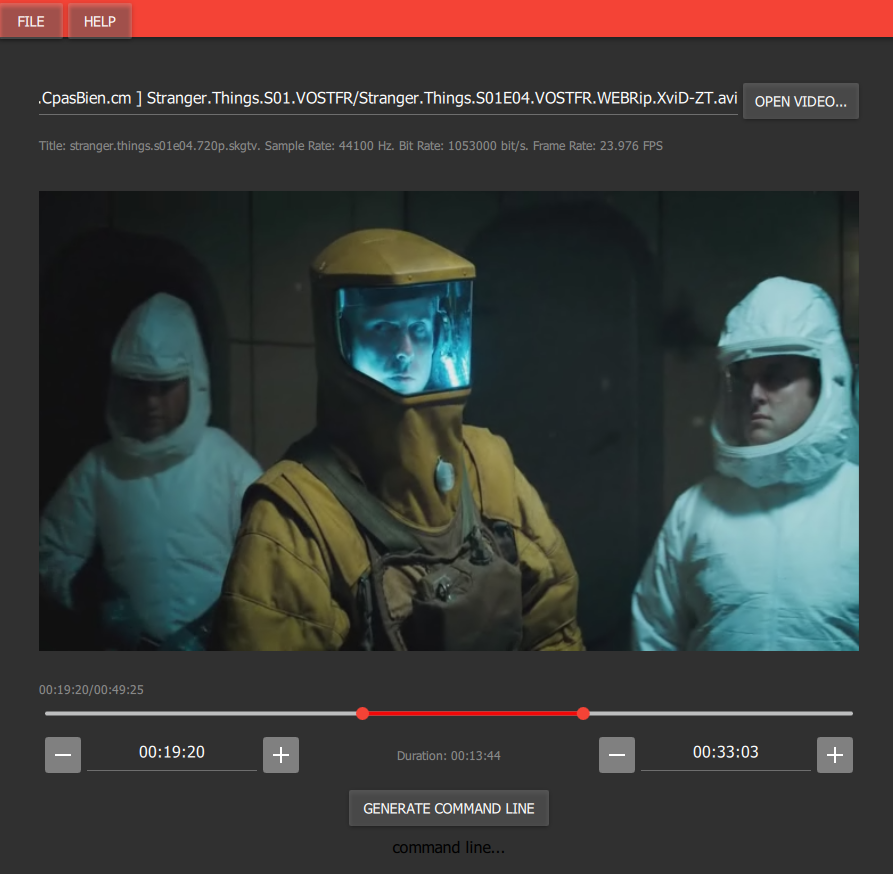
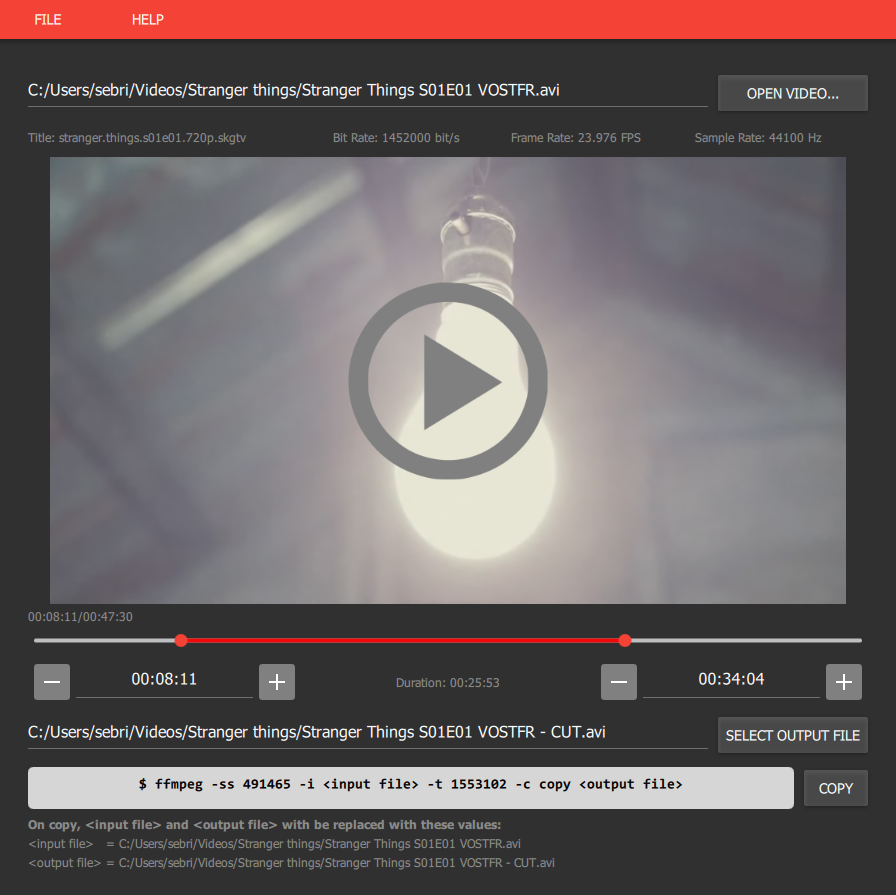
Added screenshot to doc with explenations

diff --git a/Ressources/QML/Page1.qml b/Ressources/QML/Page1.qml
@@ -25,9 +25,6 @@ Page1Form {
       * FFMpeg command
       */
 
-    /** When the copy button is pressed, we store the ffmpeg command
-      * in the clipboard
-      */
     copyButton.onPressed: {
         var ffmpegCommandStr = "ffmpeg -ss "
                 + spinboxStart.value
@@ -40,7 +37,6 @@ Page1Form {
         _TestClass.copyButtonClicked(ffmpegCommandStr);
     }
 
-    //
     ffmpegCommand.onActiveFocusChanged: {
         if (ffmpegCommandIsSelected) {
             ffmpegCommand.undo();

diff --git a/doc/rapport.tex b/doc/rapport.tex
@@ -95,12 +95,29 @@
 		 
 		 Les composants suivants permettent de définir la coupure que l'ont souhaite. Deux manières sont proposées à l'utilisateur, soit en passant par le "double slider" ou alors en passant par les boutons \textbf{plus} et \textbf{moins} respectifs pour modifier le début ou la fin de la vidéo. La visualisation de la vidéo est automatiquement mise à jour afin que l'utilisateur puisse être le plus précis possible. La durée de la vidéo résultante est également affichée, ce qui peut être utile dans le cas où une personne a une durée limite. \\
 		 
-		 La troisième étape pour l'utilisateur est de retrouver la commande ffmpeg qui lui permettra de couper sa vidéo. Avec les chemins absolus vers les vidéos, la commande devenait beaucoup trop grand à afficher, nous avons donc choisi de les masquer dans la commande, mais avons mis en place un bouton permettant de copier la commande complète dans le presse papier de l'utilisateur.
+		 La troisième étape pour l'utilisateur est de retrouver la commande ffmpeg qui lui permettra de couper sa vidéo. Avec les chemins absolus vers les vidéos, la commande devenait beaucoup trop grande à afficher, nous avons donc choisi de les masquer dans la commande, mais avons mis en place un bouton permettant de copier la commande complète dans le presse papier de l'utilisateur. Pour ne pas perturber l'utilisateur, nous lui informons que ces chemins relatifs sont bel et bien copiés au moyen d'un texte explicatif en dessous de la commande, et lui affichons explicitement ces chemins.
+		 
+		 \begin{center}
+		 	\makebox[\textwidth]{\includegraphics[width=\textwidth]{screenshot.PNG}}
+		 \end{center}
+	 \begin{enumerate}
+	 	\item Menu de l'application
+	 	\item Champ texte permettant d'éditer le chemin de la vidéo et bouton OPEN VIDEO... pour l'ouvrir à partir du navigateur de fichier natif au système d'exploitation
+	 	\item Informations sur la vidéo: Titre, Nombre de bit par seconde, Nombre d'images par seconde, Taux d'échantillonnage
+	 	\item écran vidéo : lorsqu'il n'y a pas de vidéo, une icône cliquable est affichée pour en charger une. Lorsqu'il y a une vidéo, l'icône play ci-dessus est affiché pour jouer la vidéo. Une fois la vidéo en pause, l'icône play s'affiche à nouveau.
+	 	\item La position actuelle de la vidéo par rapport à sa durée totale exprimé ici selon le format hh:mm:ss/hh:mm:ss
+	 	\item Le "Double Slider" permettant de sélectionner une partie de la vidéo. La partie en rouge met en évidence la portion sélectionnée. Les deux points sont "drag'n'dropable" et permettent de modifier cette portion.
+	 	\item Les deux champs spécifiant la position de départ et de fin de la vidéo à séquencer. En interagissant avec les boutons + et -, le double slider et la vidéo s'adaptent.
+	 	\item Ici figure la durée totale de la portion sélectionnée
+	 	\item Le champ permet de saisir un fichier de sortie, alors que le bouton "SELECT OUTPUT FILE" permet d'ouvrir l'explorateur de fichier natif à l'OS pour en chercher un.
+	 	\item La commande ffmpeg résultante du découpage vidéo avec les fichiers d'entrée et de sortie. Les temps y sont affichés en millisecondes. Le boutons "COPY" est désactivé tant que les deux fichiers d'entrée et de sorties ne sont pas choisis.
+	 	\item L'information "On copy, ..." expliquant à l'utilisateur que c'est bien la commande complète qui va être copiée.
+	 \end{enumerate}
 
 	\part*{Améliorations}
 		Actuellement, la visualisation de la vidéo s'adapte en fonction des configurations de l'utilisateurs. Il serait utile d'ajouter un nouveau contrôleur afin de pouvoir se déplacer dans la vidéo sans que cela n'influence les paramètres de coupe. \\
 		
-		Une autre chose est que les temps utilisés afin de définir le début et la fin de la vidéo vont à la seconde près. Alors qu'une vidéo contient encore plusieurs images par secondes. Cette précision pourrait être améliorée. \\
+		Une autre chose est que les temps utilisés afin de définir le début et la fin de la vidéo vont à la seconde près. Alors qu'une vidéo contient encore plusieurs images par secondes. Cette précision pourrait être améliorée en se basant sur le FPS (Frame Per Second) de chaque vidéo. \\
 		
 		Certains format de vidéo ne sont pas pris en charge. Les modules Qt Quick sont encore très récents et ceux-ci vont être améliorés à l'avenir.
 	
